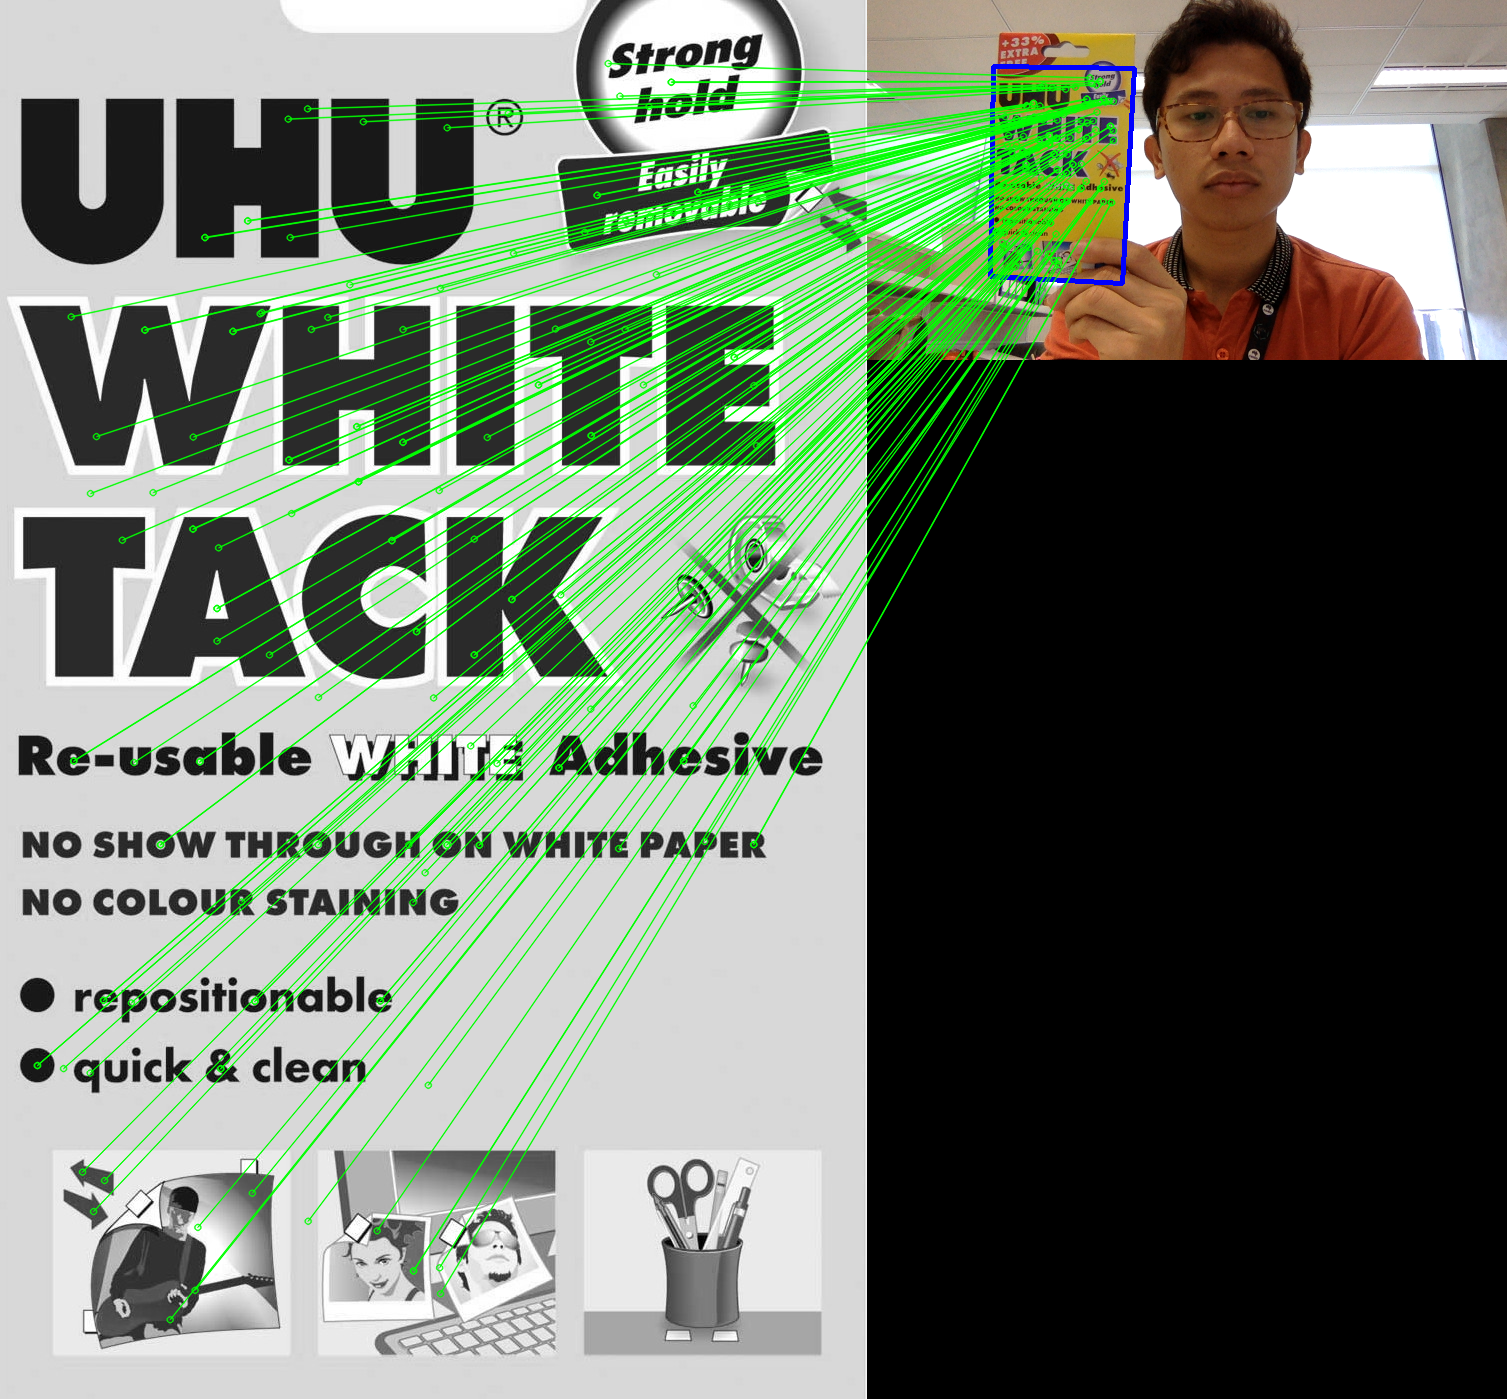
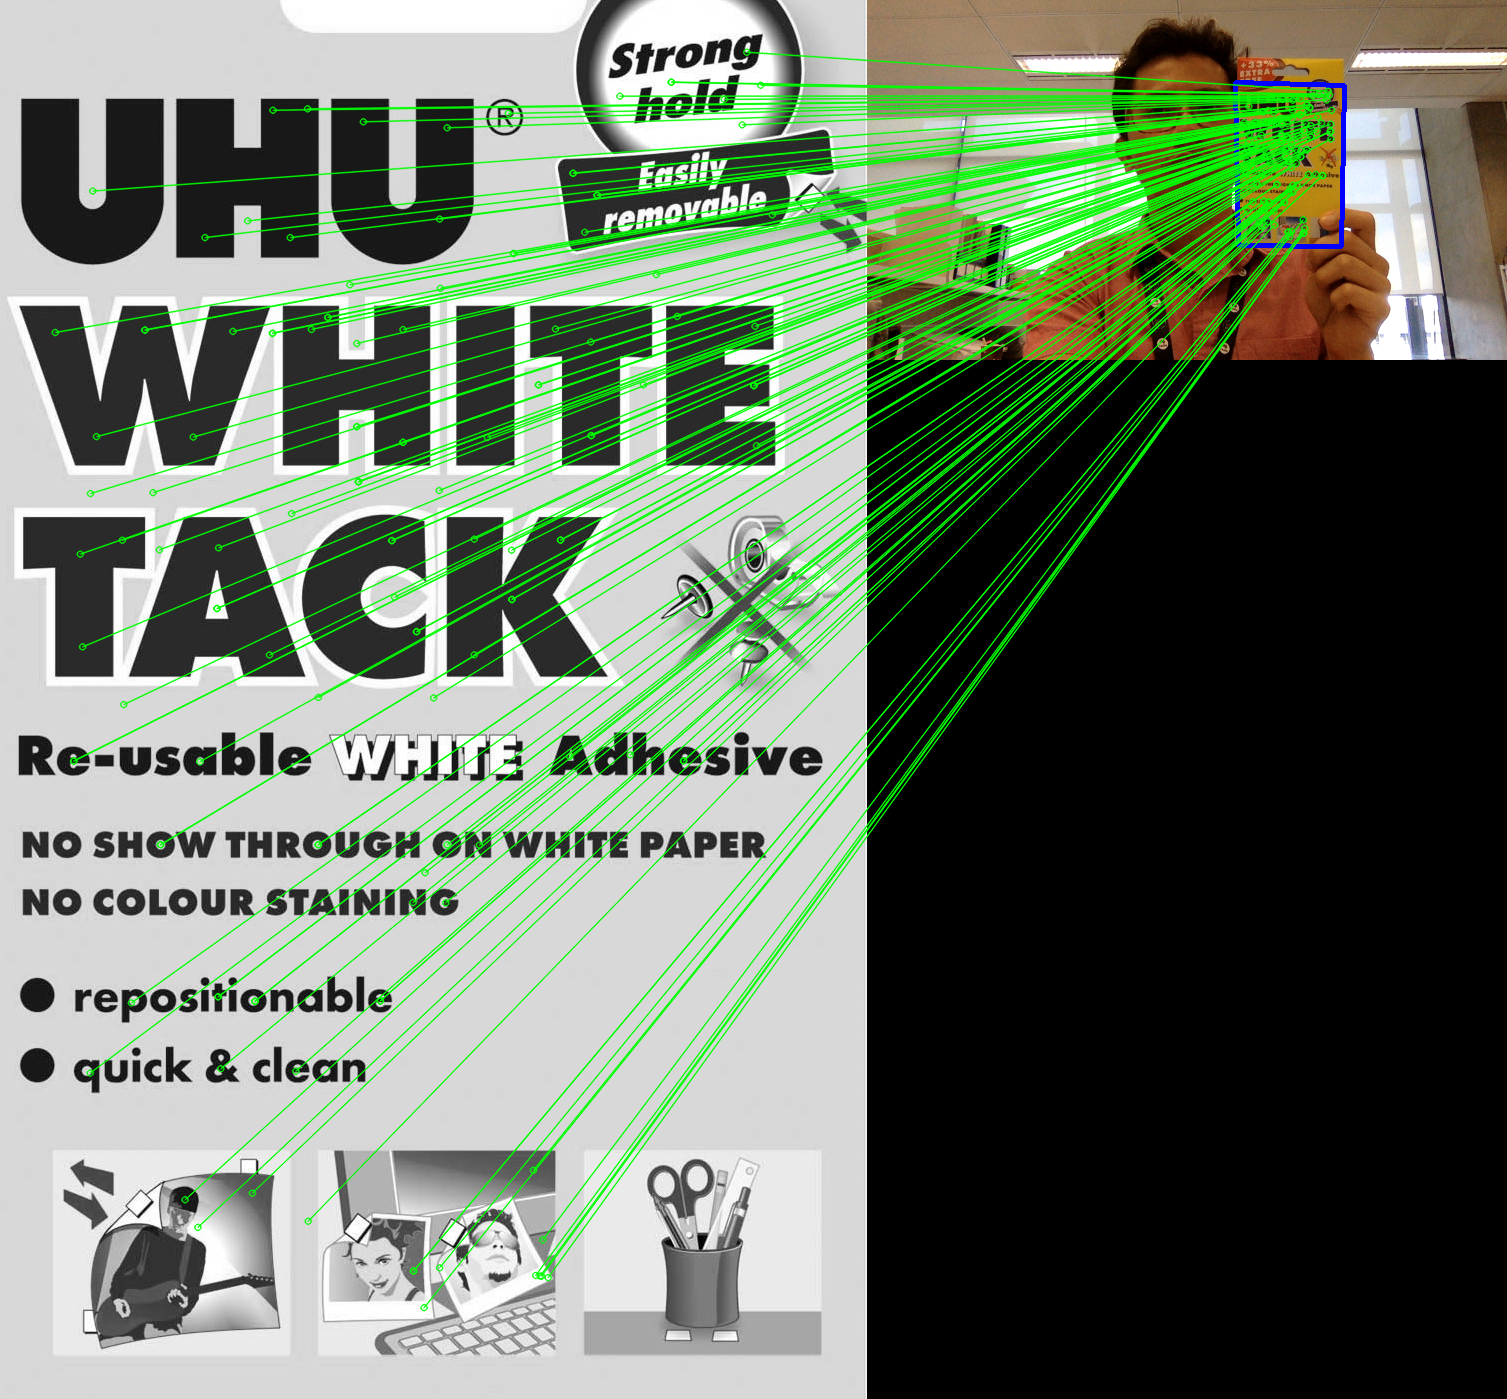
Simple Demo ready

diff --git a/objectDetectorSecure.py b/objectDetectorSecure.py
@@ -4,10 +4,8 @@
 # Adapted from the image detection sample code from the openc-python
 # tutorial at http://docs.opencv.org/3.3.0/d1/de0/tutorial_py_feature_homography.html
 
-# Version info:	1.1.x 	this version shows histogram information of the distance calculation
+# Version info:	1.1 - 	this version shows histogram information of the distance calculation
 #			of the query and reference descriptors which was used for matching.
-#
-#		-.-.x	this version tries to segment the image into different regions first.
 
 import sys
 import numpy as np
@@ -74,30 +72,12 @@ if __name__ == '__main__':
 
 	while(frameCount<100):
 		# get each frame
-		_, frame = cap.read()
-		frame = cv2.resize(frame,(0,0),fx=0.5,fy=0.5)
-		#ox,oy = frame.shape
-		#gray = cv2.cvtColor(frame, cv2.COLOR_BGR2GRAY)
+		_, raw = cap.read()
+		# frame = cv2.cvtColor(frame, cv2.COLOR_BGR2GRAY), not necessary
+		# ox,oy = frame.shape
+		frame = cv2.resize(raw,(0,0),fx=0.5,fy=0.5)
 		fh,fw = frame.shape[:2]
 
-# with contour detection
-#		th, im_th = cv2.threshold(gray,220,255, cv2.THRESH_BINARY)
-#		im_floodfill = im.th.copy
-
-#		kernel = np.ones((5,5),np.uint8)
-#		res = cv2.morphologyEx(gray, cv2.MORPH_OPEN, kernel)
-#		edges = cv2.Canny(res, 10,100)
-#
-#		contours,hierarchy = cv2.findContours(edges.copy(),cv2.RETR_EXTERNAL, cv2.CHAIN_APPROX_NONE)[-2:]
-#		
-#		contours = [contour for contour in contours if len(contour) > (min(frame.shape)/10)]
-#		mask = np.zeros(frame.shape, np.uint8)
-#		cv2.floodFill(im_floodfill, mask, (0,0),255)
-#		res = cv2.drawContours(mask,contours,-1,(255,255,255),3)
-#		mask_inv = cv2.bitwise_not(mask)
-		
-#		flood_mask = np.zeros((h+2,w+2), np.uint8)
-#		cv2.floodFill(mask_inv, flood_mask, (0,0), 255) 
 		t_start = time.clock()
 		frameCount = frameCount + 1
 
@@ -125,6 +105,8 @@ if __name__ == '__main__':
 		good = sorted(good, key = lambda x:x.distance)
 		t_sort = time.process_time()
 
+		mask2 = np.zeros(frame.shape, np.uint8)
+
 		# if enough matches are found
 		if len(good)>MIN_MATCH_COUNT:
 			# extract location of points in both images
@@ -140,50 +122,50 @@ if __name__ == '__main__':
 			pts = np.float32([ [0,0],[0,h-1],[w-1,h-1],[w-1,0] ]).reshape(-1,1,2)
 			dst = cv2.perspectiveTransform(pts,M)
 
-			# draw the transformed image		
+			# draw the transformed image
 			flood_mask = np.zeros((fh+2,fw+2), np.uint8)
-			mask = np.zeros(frame.shape, np.uint8)
-			cv2.drawContours(mask,[np.int32(dst)],-1,(255,255,255),3)
-			cv2.floodFill(mask,flood_mask,(0,0),(255,255,255))
-#			mask = cv2.bitwise_not(mask)
-			res = frame | mask
+			cv2.drawContours(frame,[np.int32(dst)],-1,(255,0,0),3)
+			cv2.drawContours(mask2,[np.int32(dst)],-1,(255,0,0),3)
+			cv2.floodFill(mask2,flood_mask,(0,0),(255,255,255))
+			res = frame | mask2
 		else:
-			res = frame
+			res = mask2
 			matchesMask = None
 		
-#		t_transform = time.process_time()
-#		print("%d, %.5f, %.5f, %.5f, %.5f, %d, %d, %d, %.5f, %.5f" % (frameCount, \
-#			t_detect-t_start, t_match-t_detect, t_sort-t_match, t_transform-t_sort, \
-#			len(des1),len(des2),len(good),good[0].distance,good[-1].distance))
-#
-#		# get processing time for each frame
-#		#td = t2 - t1
-#		#textTime = "Time to process this frame: " + str(td) + " seconds."
-#		#oSizeInfo = "Original res " + str(ox) + "x" + str(oy)
-#		#rSizeInfo = "New res " + str(rx) + "x" + str(ry)
-#		#res = cv2.putText(res,textTime,(10,30), cv2.FONT_HERSHEY_SIMPLEX,\
-#		#	0.5, (10,10,10),1, cv2.LINE_AA)
-#		#res = cv2.putText(res,oSizeInfo,(10,45), cv2.FONT_HERSHEY_SIMPLEX,\
-#		#	0.5, (10,10,10),1, cv2.LINE_AA)
-#		#res = cv2.putText(res,rSizeInfo,(10,60), cv2.FONT_HERSHEY_SIMPLEX,\
-#		#	0.5, (10,10,10),1, cv2.LINE_AA)
-#	 
+		t_transform = time.process_time()
+		print("%d, %.5f, %.5f, %.5f, %.5f, %d, %d, %d, %.5f, %.5f" % (frameCount, \
+			t_detect-t_start, t_match-t_detect, t_sort-t_match, t_transform-t_sort, \
+			len(des1),len(des2),len(good),good[0].distance,good[-1].distance))
+
+		# get processing time for each frame
+		#td = t2 - t1
+		#textTime = "Time to process this frame: " + str(td) + " seconds."
+		#oSizeInfo = "Original res " + str(ox) + "x" + str(oy)
+		#rSizeInfo = "New res " + str(rx) + "x" + str(ry)
+		#res = cv2.putText(res,textTime,(10,30), cv2.FONT_HERSHEY_SIMPLEX,\
+		#	0.5, (10,10,10),1, cv2.LINE_AA)
+		#res = cv2.putText(res,oSizeInfo,(10,45), cv2.FONT_HERSHEY_SIMPLEX,\
+		#	0.5, (10,10,10),1, cv2.LINE_AA)
+		#res = cv2.putText(res,rSizeInfo,(10,60), cv2.FONT_HERSHEY_SIMPLEX,\
+		#	0.5, (10,10,10),1, cv2.LINE_AA)
+	 
 		draw_params = dict(matchColor = (0,255,0), singlePointColor = None,\
 			matchesMask = matchesMask, flags = 2)
 		img3 = cv2.drawMatches(img1,kp1,frame,kp2,good,None,**draw_params)
 
-#		cv2.putText(gray,"Contours : " + str(len(contours)), (100,50), cv2.FONT_HERSHEY_SIMPLEX, \
-#			0.75, (50,175,50), 2)
-
-		cv2.imshow('Detected', res)
-#		cv2.imshow('Masked', mask_inv)
-		#cv2.imshow('Matches',img3) # shows the matching lines for checking
+		cv2.imshow('Sanitized', res)
+		cv2.imshow('Detected', frame)
+#		cv2.imshow('Matches',img3) # shows the matching lines for checking
 
 #		plt.hist(distances,normed=False, bins = 30)
 #		plt.ylabel('Probability')
 
 		k = cv2.waitKey(5) & 0xFF
-		if k ==27:
+		if k == 27:
+			cv2.imwrite("detected.png", frame)
+			cv2.imwrite("sanitized.png", res)
+#			cv2.imwrite("matches.png", img3)
+			cv2.imwrite("raw.png", raw)
 			break
 
 	cap.release()
